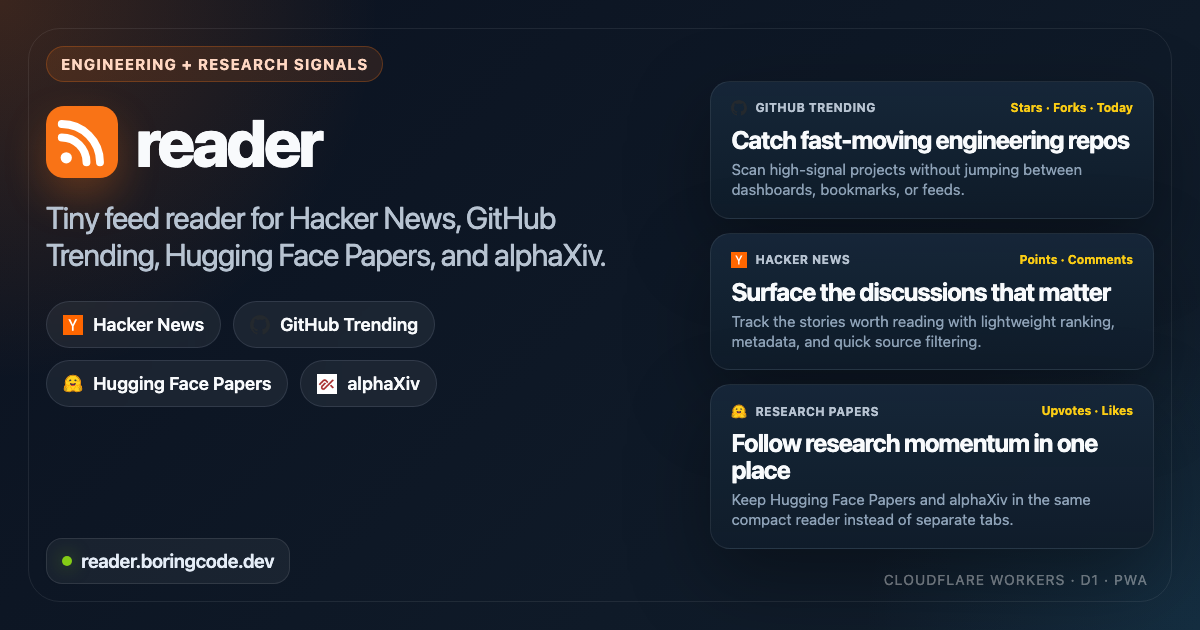
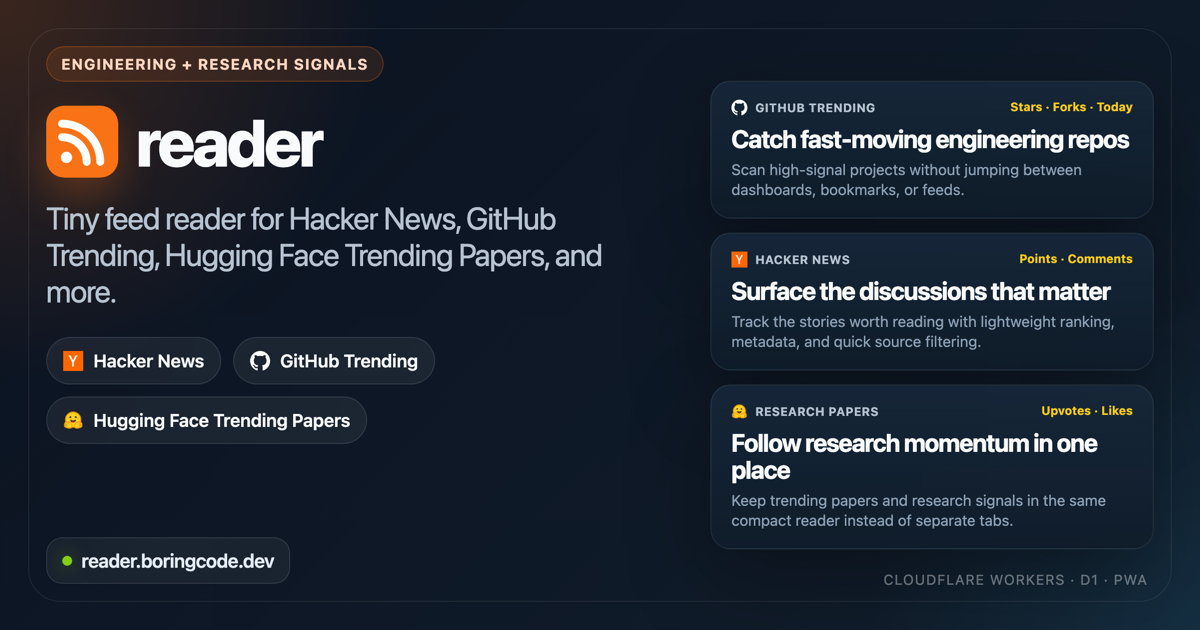
fix: drop alphaXiv from SEO copy, regen og-image and mobile screenshot
Social card subtitle still named alphaXiv directly; switch to generic
research-signals wording to match the other SEO surfaces. Re-render
og-image.png from the updated social card and retake screenshot-mobile.png
with proper mobile viewport emulation so the right edge no longer clips.

diff --git a/docs/assets/social-card.html b/docs/assets/social-card.html
@@ -39,7 +39,7 @@
           system-ui,
           -apple-system,
           BlinkMacSystemFont,
-          "Segoe UI",
+          'Segoe UI',
           sans-serif;
         color: var(--text);
         background:
@@ -57,7 +57,7 @@
         position: relative;
       }
       body::before {
-        content: "";
+        content: '';
         position: absolute;
         inset: 28px;
         border-radius: 32px;
@@ -247,7 +247,7 @@
         </div>
         <div class="subtitle">
           Tiny feed reader for Hacker News, GitHub Trending, Hugging Face
-          Papers, and alphaXiv.
+          Trending Papers, and more.
         </div>
         <div class="sources">
           <div class="chip">
@@ -259,7 +259,7 @@
           </div>
           <div class="chip">
             <img
[2 lines of base64/hex data omitted]
               alt=""
             />
             GitHub Trending
@@ -269,14 +269,7 @@
[1 lines of base64/hex data omitted]
               alt=""
             />
-            Hugging Face Papers
-          </div>
-          <div class="chip">
-            <img
[1 lines of base64/hex data omitted]
-              alt=""
-            />
-            alphaXiv
+            Hugging Face Trending Papers
           </div>
         </div>
         <div class="url">
@@ -288,7 +281,7 @@
           <div class="card-top">
             <div class="source">
               <img
[2 lines of base64/hex data omitted]
                 alt=""
               />
               GitHub Trending
@@ -331,8 +324,8 @@
           </div>
           <h3>Follow research momentum in one place</h3>
           <p>
-            Keep Hugging Face Papers and alphaXiv in the same compact reader
-            instead of separate tabs.
+            Keep trending papers and research signals in the same compact
+            reader instead of separate tabs.
           </p>
         </article>
       </section>

diff --git a/core/render.ts b/core/render.ts
@@ -123,12 +123,12 @@ export function renderIndexPage(data: PageData): string {
     <meta name="viewport" content="width=device-width, initial-scale=1, viewport-fit=cover" />
     <title>reader</title>
     <meta name="application-name" content="reader" />
-    <meta name="description" content="Tiny feed reader for Hacker News, GitHub Trending, Hugging Face Papers, and alphaXiv." />
+    <meta name="description" content="Tiny feed reader for Hacker News, GitHub Trending, Hugging Face Trending Papers, and more." />
     <link rel="canonical" href="${escapeHtml(data.canonicalUrl)}" />
     <meta property="og:type" content="website" />
     <meta property="og:site_name" content="reader" />
     <meta property="og:title" content="reader — engineering and research signals" />
-    <meta property="og:description" content="Tiny feed reader for Hacker News, GitHub Trending, Hugging Face Papers, and alphaXiv." />
+    <meta property="og:description" content="Tiny feed reader for Hacker News, GitHub Trending, Hugging Face Trending Papers, and more." />
     <meta property="og:url" content="${escapeHtml(data.canonicalUrl)}" />
     <meta property="og:image" content="${escapeHtml(data.socialImageUrl)}" />
     <meta property="og:image:alt" content="reader social preview showing branded feed cards for engineering and research sources" />
@@ -136,7 +136,7 @@ export function renderIndexPage(data: PageData): string {
     <meta property="og:image:height" content="630" />
     <meta name="twitter:card" content="summary_large_image" />
     <meta name="twitter:title" content="reader — engineering and research signals" />
-    <meta name="twitter:description" content="Tiny feed reader for Hacker News, GitHub Trending, Hugging Face Papers, and alphaXiv." />
+    <meta name="twitter:description" content="Tiny feed reader for Hacker News, GitHub Trending, Hugging Face Trending Papers, and more." />
     <meta name="twitter:image" content="${escapeHtml(data.socialImageUrl)}" />
     <meta name="twitter:image:alt" content="reader social preview showing branded feed cards for engineering and research sources" />
     <meta name="color-scheme" content="dark light" />
@@ -147,7 +147,7 @@ export function renderIndexPage(data: PageData): string {
     <meta name="apple-mobile-web-app-capable" content="yes" />
     <meta name="apple-mobile-web-app-status-bar-style" content="default" />
     <meta name="apple-mobile-web-app-title" content="reader" />
-    <link rel="manifest" href="/site.webmanifest?v=10" />
+    <link rel="manifest" href="/site.webmanifest?v=11" />
     <link rel="icon" href="/favicon.svg?v=8" sizes="any" type="image/svg+xml" />
     <link rel="shortcut icon" href="/favicon.svg?v=8" type="image/svg+xml" />
     <link rel="apple-touch-icon" href="/apple-touch-icon.png?v=8" />

diff --git a/web-static/service-worker.js b/web-static/service-worker.js
@@ -1,4 +1,4 @@
-const SHELL_CACHE = "reader-shell-v39";
+const SHELL_CACHE = "reader-shell-v40";
 const ITEMS_CACHE = "reader-items-v22";
 const CORE_ASSETS = [
   "/",
@@ -9,7 +9,7 @@ const CORE_ASSETS = [
   "/static/source-icons/huggingface.svg",
   "/static/source-icons/alphaxiv.png",
   "/favicon.svg?v=8",
-  "/site.webmanifest?v=10",
+  "/site.webmanifest?v=11",
   "/apple-touch-icon.png?v=8",
   "/icon-192.png?v=8",
   "/icon-512.png?v=8",

diff --git a/platforms/cloudflare/src/index.ts b/platforms/cloudflare/src/index.ts
@@ -68,7 +68,7 @@ async function handleHome(
   );
   const querySource = source === "all" ? "" : source;
   const canonicalUrl = `${url.origin}${url.pathname}${url.search}`;
-  const socialImageUrl = `${url.origin}/og-image.png?v=1`;
+  const socialImageUrl = `${url.origin}/og-image.png?v=2`;
   const appVersion = env.APP_VERSION?.trim() || "dev";
 
   const { items, hasNext } = await feedItems(

diff --git a/README.md b/README.md
@@ -5,7 +5,11 @@
 </p>
 
 <p align="center">
-  Server-rendered UI · D1 storage · Scheduled refresh · Cloudflare Workers · Visible at <a href="https://reader.boringcode.dev">reader.boringcode.dev</a>
+  <img src="web-static/og-image.png" alt="feedreader social card" />
+</p>
+
+<p align="center">
+  Server-rendered UI · D1 storage · Scheduled refresh · Cloudflare Workers
 </p>
 
 <p align="center">
@@ -16,14 +20,6 @@
   <a href="https://github.com/boringcode-dev/feedreader-edge/actions/workflows/ci.yml"><img src="https://github.com/boringcode-dev/feedreader-edge/actions/workflows/ci.yml/badge.svg?branch=main" alt="CI" /></a>
   <img src="https://img.shields.io/badge/License-MIT-yellow.svg" alt="License: MIT" />
 </p>
-
----
-
-## Live site
-
-The current production deployment is publicly visible at:
-
-- https://reader.boringcode.dev
 
 ---
 